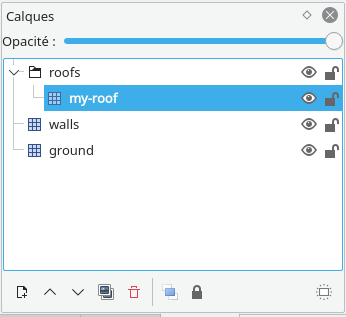
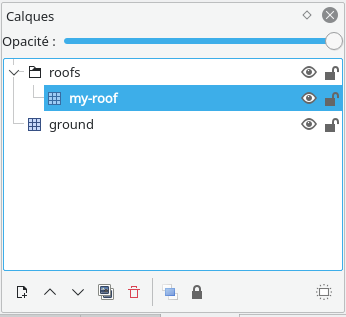
update Level Design section to include the new walls/blocks, doorways and cover systems

Changed region(s): [[0.0289, 0.4543, 0.289, 0.511], [0.1445, 0.3691, 0.289, 0.4259], [0.8671, 0.4543, 0.9827, 0.511]]

diff --git a/index.html b/index.html
@@ -137,7 +137,7 @@ You will need:
                 Download and install <a href="https://thorbjorn.itch.io/tiled">Tiled</a>, if you haven't already done so, and let's get started:
               </p>
             
-              <h4 class="card-title" id="c2-1">1.1 Creating a new tilemap</h4>
+              <h4 class="card-title" id="c1-1">1.1 Creating a new tilemap</h4>
 
               <p class="card-text">
                 Go to <span class="mono-span">File -> New -> New map</span> to open the new tilemap dialog:
@@ -192,34 +192,85 @@ You will need:
 
               <div class="end-chapter"></div>
 
-              <h4 class="card-title" id="c1-2">1.2 Walls</h4>
+              <h4 class="card-title" id="c1-2">1.2 Blocks</h4>
               
               <p class="card-text">
-                Now that we know how to paint the ground, let's move on to the walls. We will need to create a new layer of tiles, called <i>walls</i>:
+                Now that we know how to paint the ground, let's move on to the blocks. Blocks are bigger tiles of 72x108 pixels, which block the path and line of sight of characters. We will need to create a new layer of tiles, called <i>blocks</i>:
               </p>
               
               <p class="card-text">
-                <img src="pictures/tiled-wall-layer.png" />
+                <img src="pictures/tiled-blocks-layer.png" />
               </p>
               
               <p class="card-text">
-                You can pick walls from the <i>walls-1</i> tileset we opened earlier, and start painting your walls now.
+                You can pick blocks from the <i>blocks.json</i> tileset we opened earlier, and start painting your blocks now.
+              </p>
+             
+              <h4 class="card-title" id="c1-3">1.3 Walls</h4>
+              
+              <p class="card-text">
+                Walls have the same function as blocks, but instead of blocking a whole tile, they merely block the path on a tile's border, horizontally or vertically.
               </p>
               
               <p class="card-text">
-                It is important to note that walls will be used by the game engine to figure out which tiles the characters can move on, and which should be blocked.
+                To handle rendering order and direction of walls, we will make a single layer for each orientation of wall (north, east, south, west). These layers will be part of a layer group that must be called `walls`.
+              </p>
+              
+              <img src="pictures/tiled-wall-layer.png" />
+              
+              <p class="card-text">
+                <br />
+                Here's a representation of which walls should belong to which layer when drawing a room:
+              </p>
+              
+              <img src="pictures/tiled-walls-orientation.png" width="100%" />
+              
+              <div class="end-chapter"></div>
+
+              <h4 class="card-title" id="c1-4">1.4 Doorways</h4>
+              
+              <p class="card-text">
+                Doorways are special tiles from the `blocks` or `walls` layers which don't block the characters movement. They are typically used as frame for door objects, although those aren't created within Tiled, but within the Game Editor.
               </p>
               
               <p class="card-text">
-                If you wish to put on wall-like structures, but which do not block the path (doorways for instance), you may create another layer, called <i>misc</i>. Tiles in the <i>misc</i> layer are rendered in the same process as walls. The <i>walls-1</i> tileset includes such doorways that should be inserted in the <i>misc</i> layer. Do not worry about the render order as it is shown by Tiled: for the game engine, tiles from the <i>walls</i> and <i>misc</i> layers act as if they were from the same layer.
+                To differentiate doorways from regular walls, we use Tiled "custom properties". Try opening the `junk-walls.json` tileset, and check out the custom properties on a doorway tile:
+              </p>
+              
+              <img src="pictures/tiled-tileset-doorway.png" />
+              
+              <p class="card-text">
+                In the corresponding custom properties, we added a custom property of boolean type called `doorway`, and set the value to true.
               </p>
 
               <div class="end-chapter"></div>
 
-              <h4 class="card-title" id="c1-3">1.3 Roofs</h4>
+              <h4 class="card-title" id="c1-5">1.5 Cover</h4>
               
               <p class="card-text">
-                We'll now put roofs over those walls. Unlike the ground and the walls, roofs are stored in multiple layers: that is because when the player character is under a roof tile, the whole layer disappears, while the other roof layers remain visible.
+                Walls and blocks break line of sights from characters, but you might not always want those to. You wall might feature a window, for instance, or your block might just be a short obstacle, providing cover. In those case, similarly to doorways, you must set a custom property on the corresponding tile, as such:
+              </p>
+              
+              <img src="pictures/tiled-tileset-cover.png" />
+              
+              <p class="card-text">
+                The cover property is of `int` type, and won't block line of sights as soon as the value is above zero.
+              </p>
+              
+              <p class="card-text">
+                The cover value will also be used to lower the chances of success of any attack that would go through the tile. It will also decrease the chances of detecting a character that's sneaking. The higher the value, the harder it will be for someone to aim or see through the tile.
+              </p>
+              
+              <p class="card-text card-hint">
+                When a line of sight crosses several tiles which have a cover value, the highest cover value will be used to determine the chances of success of the attack.
+              </p>
+
+              <div class="end-chapter"></div>
+              
+              <h4 class="card-title" id="c1-6">1.6 Roofs</h4>
+              
+              <p class="card-text">
+                We'll now put roofs over those walls. Roofs are stored in multiple layers: that is because when the player character is under a roof tile, the whole layer disappears, while the other roof layers remain visible.
               </p>
               
               <p class="card-text">
@@ -231,7 +282,7 @@ You will need:
               </p>
               
               <p class="card-text">
-                Roof layers also have another particularity: they are rendered at a diffrent offset than other layers. For each of your roof layer, you must set the property "Vertical offset" to -72:
+                Roof layers also have another particularity: they are rendered at a diffrent offset than other layers. The roof group layer must have its "Vertical offset" property set to -72:
               </p>
               
               <p class="card-text">
@@ -244,7 +295,7 @@ You will need:
 
               <div class="end-chapter"></div>
 
-              <h4 class="card-title" id="c1-4">1.4 Zones</h4>
+              <h4 class="card-title" id="c1-7">1.7 Zones</h4>
               
               <p class="card-text">
                 The last thing you will have to do in Tiled will be drawing tile zone. Tile zones can serve the following purposes:
@@ -298,7 +349,7 @@ You will need:
 
               <div class="end-chapter"></div>
               
-              <h4 class="card-title" id="c1-5">1.5 Light zones</h4>
+              <h4 class="card-title" id="c1-8">1.8 Light zones</h4>
               
               <p class="card-text">
                 There is also one last special type of zone: light zones are used to draw light effects on the tilemap, while allowing bonuses for perception related tests on objects affected by a light zone. Light zones can also be turned on and off by scripts.
@@ -2777,10 +2828,13 @@ export function create(model) {
             <a href="#c1">1. Level design</a>
             <div class="chapter">
               <a href="#c1-1">1.1 Creating a new tilemap</a>
-              <a href="#c1-2">1.2 Walls</a>
-              <a href="#c1-3">1.3 Roofs</a>
-              <a href="#c1-4">1.4 Zones</a>
-              <a href="#c1-5">1.5 Light zones</a>
+              <a href="#c1-2">1.2 Blocks</a>
+              <a href="#c1-3">1.3 Walls</a>
+              <a href="#c1-4">1.4 Doorways</a>
+              <a href="#c1-5">1.5 Cover</a>
+              <a href="#c1-6">1.6 Roofs</a>
+              <a href="#c1-7">1.7 Zones</a>
+              <a href="#c1-8">1.8 Light zones</a>
             </div>
             <a href="#c2">2. Scripting introduction</a>
             <div class="chapter">
